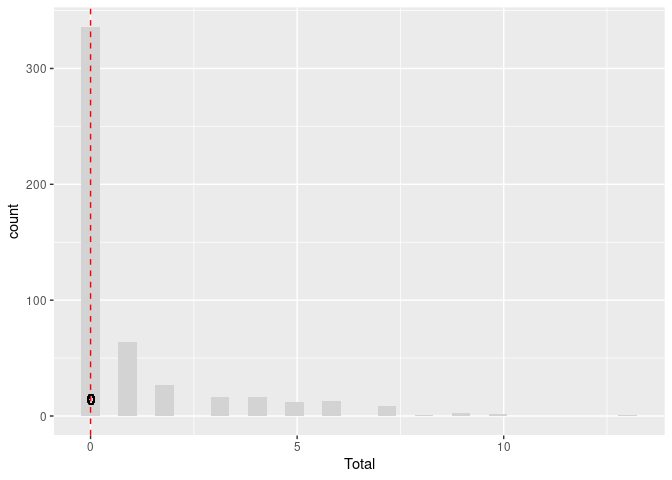
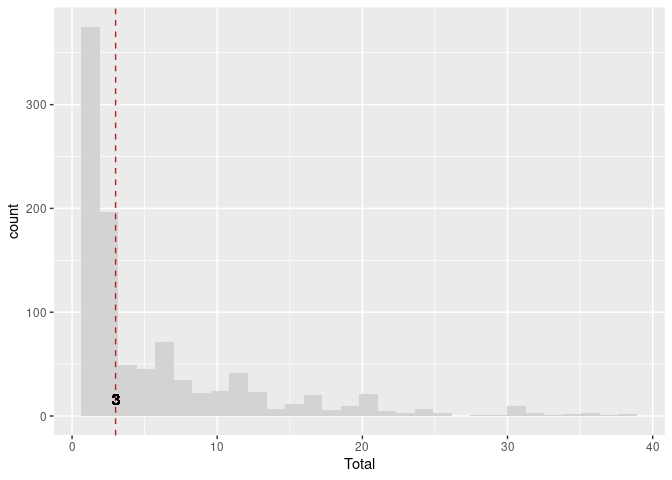
Debugging hosp module

diff --git a/school_quarantine/school_quarantine.cpp b/school_quarantine/school_quarantine.cpp
@@ -1,5 +1,4 @@
-
-#define EPI_DEBUG
+// #define EPI_DEBUG
 #include "school_quarantine.hpp"
 
 // Defining the 
@@ -8,15 +7,13 @@ int main(int argc, char *argv[]) {
 
     // Passing the single argument to this function
     std::string fn      = "new_bridge_88_params.yaml";
-    size_t n            = 1000;
     std::string out_dir = "new_bridge_88";
-    if (argc != 4 && argc != 1) {
-        std::cerr << "Usage: " << argv[0] << " <filename> <outdir> <size>" << std::endl;
+    if (argc != 3 && argc != 1) {
+        std::cerr << "Usage: " << argv[0] << " <filename> <outdir>" << std::endl;
         return 1;
     } else if (argc == 4) {
         fn      = std::string(argv[1]);
         out_dir = std::string(argv[2]);
-        n       = std::stoul(argv[3]);
     }
     std::cout << "Using file: " << fn << std::endl;
 

diff --git a/school_quarantine/school_quarantine.hpp b/school_quarantine/school_quarantine.hpp
@@ -385,7 +385,8 @@ EPI_NEW_UPDATEFUN(update_rash, int) {
         // If hospitalized, then the agent is removed from the system
         // effectively
         p->change_state(m, ModelSchoolQuarantine::HOSPITALIZED);
-    } else
+    }
+    else if (which != 0)
     {
         throw std::logic_error("The roulette returned an unexpected value.");
     }
@@ -503,7 +504,7 @@ EPI_NEW_UPDATEFUN(update_isolated, int) {
         // If hospitalized, then the agent is removed from the system
         // effectively
         p->change_state(m, ModelSchoolQuarantine::HOSPITALIZED);
-    } else
+    } else if (which != 0)
     {
         throw std::logic_error("The roulette returned an unexpected value.");
     }

diff --git a/school_quarantine/new_bridge_88.md b/school_quarantine/new_bridge_88.md
@@ -56,8 +56,8 @@ This model simulates the spread of measles in a highschool. The
 highschool has students, and the simulation runs for days with one index
 case. The following is the output from the highschool model:
 
-    Using file: /scratch/local/u6039184/3635580/RtmposMDSz/file1ebbb919c8fc6.yaml
-    Starting multiple runs (500) using 10 thread(s)
+    Using file: /scratch/local/u6039184/3635580/Rtmp9hS6fK/file1ebfab60c78764.yaml
+    Starting multiple runs (1000) using 30 thread(s)
     _________________________________________________________________________
     _________________________________________________________________________
     ||||||||||||||||||||||||||||||||||||||||||||||||||||||||||||||||||||||||| done.
@@ -72,9 +72,9 @@ case. The following is the output from the highschool model:
     Days (duration)     : 60 (of 60)
     Number of viruses   : 1
     Last run elapsed t  : 7.00ms
-    Total elapsed t     : 353.00ms (500 runs)
-    Last run speed      : 5.09 million agents x day / second
-    Average run speed   : 52.14 million agents x day / second
+    Total elapsed t     : 260.00ms (1000 runs)
+    Last run speed      : 5.22 million agents x day / second
+    Average run speed   : 141.49 million agents x day / second
     Rewiring            : off
 
     Global events:
@@ -88,9 +88,9 @@ case. The following is the output from the highschool model:
 
     Model parameters:
      - Contact rate           : 2.3810
-     - Days undetected        : 0.2000
-     - Hospitalization days   : -1.0000
-     - Hospitalization rate   : 7.0000
+     - Days undetected        : -1.0000
+     - Hospitalization days   : 7.0000
+     - Hospitalization rate   : 0.2000
      - Incubation period      : 12.0000
      - Prodromal period       : 3.0000
      - Quarantine days        : 21.0000
@@ -102,7 +102,7 @@ case. The following is the output from the highschool model:
      - Vax improved recovery  : 0.5000
 
     Distribution of the population at time 60:
-      - ( 0) Susceptible             : 613 -> 613
+      - ( 0) Susceptible             : 613 -> 610
       - ( 1) Exposed                 :   1 -> 0
       - ( 2) Prodromal               :   0 -> 0
       - ( 3) Rash                    :   0 -> 0
@@ -111,21 +111,21 @@ case. The following is the output from the highschool model:
       - ( 6) Quarantined Susceptible :   0 -> 0
       - ( 7) Quarantined Infectious  :   0 -> 0
       - ( 8) Quarantined Recovered   :   0 -> 0
-      - ( 9) Hospitalized            :   0 -> 1
-      - (10) Recovered               :   0 -> 0
+      - ( 9) Hospitalized            :   0 -> 0
+      - (10) Recovered               :   0 -> 4
 
     Transition Probabilities:
      - Susceptible              1.00  0.00  0.00  0.00  0.00  0.00  0.00  0.00  0.00  0.00  0.00
-     - Exposed                  0.00  0.86  0.14  0.00  0.00  0.00  0.00  0.00  0.00  0.00  0.00
-     - Prodromal                0.00  0.00  0.67  0.33  0.00  0.00  0.00  0.00  0.00  0.00  0.00
-     - Rash                     0.00  0.00  0.00  0.00  0.00  0.00  0.00  0.00  0.00  1.00  0.00
+     - Exposed                  0.00  0.93  0.07  0.00  0.00  0.00  0.00  0.00  0.00  0.00  0.00
+     - Prodromal                0.00  0.00  0.20  0.80  0.00  0.00  0.00  0.00  0.00  0.00  0.00
+     - Rash                     0.00  0.00  0.00  0.33  0.00  0.00  0.00  0.00  0.00  0.33  0.33
      - Isolated                    -     -     -     -     -     -     -     -     -     -     -
      - Quarantined Exposed         -     -     -     -     -     -     -     -     -     -     -
      - Quarantined Susceptible     -     -     -     -     -     -     -     -     -     -     -
      - Quarantined Infectious      -     -     -     -     -     -     -     -     -     -     -
      - Quarantined Recovered       -     -     -     -     -     -     -     -     -     -     -
-     - Hospitalized             0.00  0.00  0.00  0.00  0.00  0.00  0.00  0.00  0.00  1.00  0.00
-     - Recovered                   -     -     -     -     -     -     -     -     -     -     -
+     - Hospitalized             0.00  0.00  0.00  0.00  0.00  0.00  0.00  0.00  0.00  0.88  0.12
+     - Recovered                0.00  0.00  0.00  0.00  0.00  0.00  0.00  0.00  0.00  0.00  1.00
 
 ## Flowchart
 
@@ -138,11 +138,14 @@ flowchart LR
     s1[Hospitalized]
     s2[Prodromal]
     s3[Rash]
-    s4[Susceptible]
-    s0 -->|0.082465| s2
-    s2 -->|0.336223| s3
-    s3 -->|1.000000| s1
-    s4 -->|0.000129| s0
+    s4[Recovered]
+    s5[Susceptible]
+    s0 -->|0.081569| s2
+    s1 -->|0.140694| s4
+    s2 -->|0.338607| s3
+    s3 -->|0.164090| s1
+    s3 -->|0.623682| s4
+    s5 -->|0.000158| s0
 
 ```
 
@@ -150,16 +153,16 @@ flowchart LR
 
 Estimating the outbreak size:
 
-|   Size | Probability    | Likely size (if \> Size) |
-|-------:|:---------------|:-------------------------|
-|  2.000 | 0.20           | \[2.00, 9.52\]           |
-|  5.000 | 0.08           | \[5.00, 10.00\]          |
-| 10.000 | \< 0.01        | \[10.00, 12.85\]         |
-| 20.000 | \< 0.01        | \-                       |
-|  0.000 | Median (50%\>) | \[ 1 , 9 \]              |
-|  0.998 | Mean (average) | \[ 1 , 9 \]              |
+|  Size | Probability    | Likely size (if \> Size) |
+|------:|:---------------|:-------------------------|
+|  2.00 | 0.62           | \[2.00, 30.40\]          |
+|  5.00 | 0.38           | \[5.00, 32.00\]          |
+| 10.00 | 0.21           | \[10.00, 35.88\]         |
+| 20.00 | 0.06           | \[20.00, 37.45\]         |
+|  3.00 | Median (50%\>) | \[ 4 , 32 \]             |
+|  5.75 | Mean (average) | \[ 6 , 32.675 \]         |
 
-Likely sizes of the outbreak based on 500 simulations.
+Likely sizes of the outbreak based on 1000 simulations.
 
 ![](new_bridge_88_files/figure-commonmark/print-histogram-1.png)
 
@@ -178,7 +181,7 @@ transitions:
 
 ![](new_bridge_88_files/figure-commonmark/reproductive-number-1.png)
 
-    Mean R0:1.014
+    Mean R0:1.151
 
     Median R0:1
 
